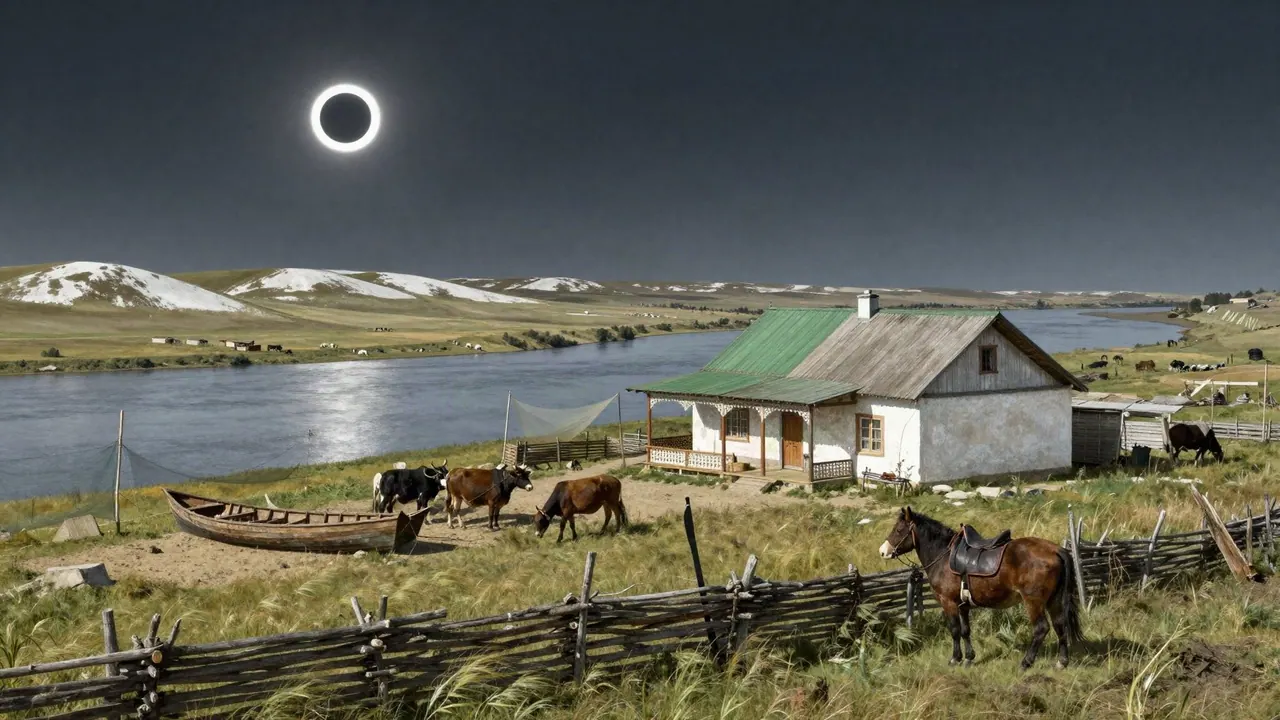
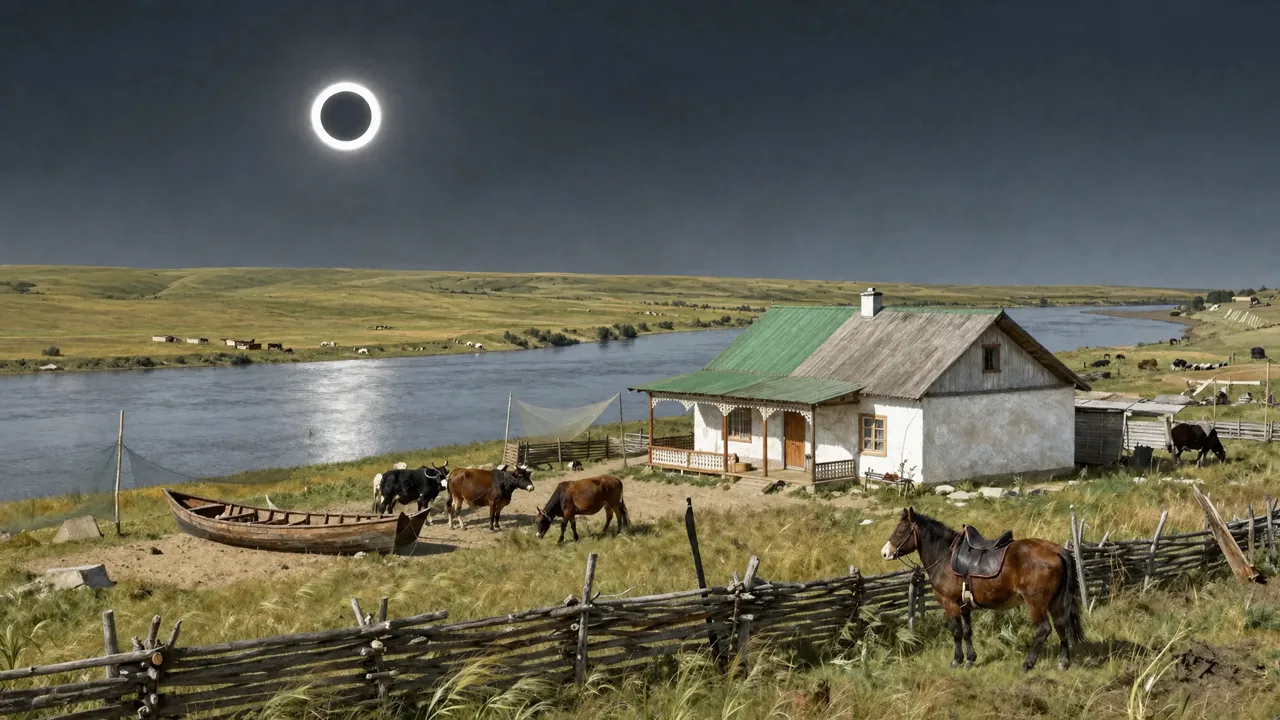
Переделаны стыки панорам: «Горе от ума», «Мастер и Маргарита», «Собачье сердце», «Очарованный странник», «Двенадцать», «Ионыч», «Тихий Дон» (без гор); детали перенесены на новые места

Changed region(s): [[0.0, 0.3667, 1.0, 1.0], [0.25, 0.0917, 0.3125, 0.1528], [0.25, 0.1833, 0.2812, 0.2139]]

diff --git a/index.html b/index.html
@@ -811,7 +811,7 @@ const ROUNDS = [
    quote:'Я пригласил вас, господа, с тем, чтобы сообщить вам пренеприятное известие: к нам едет ревизор.', cite:'Н. В. Гоголь, «Ревизор»'},
   {id:'famusov', loop:1, set:4, img:'img/s_famusov.jpg', title:'Горе от ума', titleAlt:['горе от ума'],
    author:'griboedov', dir:4, year:'1824', place:'Москва, дом Фамусова', city:'msk', tol:0, accept:['москв','фамусов'],
-   details:['часы','флейта и фортепьяно за дверью','французские книги','карета у подъезда','догоревшие свечи','рассвет в окне','фортепиано'],
+   details:['часы','флейта и фортепьяно за дверью','французские книги','карета у подъезда','догоревшие свечи','рассвет в окне','фортепиано','дверь в покои хозяина'],
    desc:'Раннее утро в доме Фамусова. Лиза сторожит у двери Софьи, за которой всю ночь звучат флейта и фортепьяно — это Молчалин. Лиза переводит часы, чтобы спасти барышню. Вечером в этот дом вернётся Чацкий, а уедет из Москвы со словами «Карету мне, карету!».',
    quote:'Счастливые часов не наблюдают.', cite:'А. С. Грибоедов, «Горе от ума»'},
   {id:'sad', loop:1, noPlace:true, set:4, img:'img/s_sad.jpg', title:'Вишнёвый сад', titleAlt:['вишневый сад'],
@@ -861,7 +861,7 @@ const ROUNDS = [
    quote:'История прекратила течение свое.', cite:'М. Е. Салтыков-Щедрин, «История одного города»'},
   {id:'sobach', loop:1, set:6, img:'img/s_sobach.jpg', title:'Собачье сердце', titleAlt:['собачье сердце'],
    author:'bulgakov', dir:4, year:'1925', place:'Москва, Пречистенка, Калабуховский дом', city:'msk', tol:0, accept:['москв','пречистенк','калабухов','обухов'],
-   details:['растерзанное чучело совы','балалайка','стойка для калош','ошейник и миска','парадная лестница с ковром','зеркало и вешалка','пальма в кадке','шкаф с инструментами'],
+   details:['растерзанное чучело совы','балалайка','стойка для калош','ошейник и миска','парадная лестница с ковром','зеркало и вешалка','пальма в кадке','шкаф с инструментами','миска в коридоре'],
    desc:'Квартира профессора Преображенского в Калабуховском доме на Пречистенке. Здесь пёс Шарик рвёт чучело совы, а после операции превращается в Полиграфа Полиграфовича Шарикова, который играет на балалайке и читает переписку Энгельса с Каутским. Профессор вздыхает о временах, когда калоши в парадном не крали.',
    quote:'Разруха не в клозетах, а в головах.', cite:'М. А. Булгаков, «Собачье сердце»'},
   {id:'nekrasov', loop:1, noPlace:true, set:6, img:'img/s_nekrasov.jpg', title:'Кому на Руси жить хорошо', titleAlt:['кому на руси жить хорошо'],
@@ -896,7 +896,7 @@ const ROUNDS = [
    quote:'Из двух друзей всегда один раб другого, хотя часто ни один из них в этом себе не признается.', cite:'М. Ю. Лермонтов, «Герой нашего времени»'},
   {id:'strannik', loop:1, set:6, img:'img/s_strannik.jpg', title:'Очарованный странник', titleAlt:['очарованный странник'],
    author:'leskov', dir:4, year:'1873', place:'Ладожское озеро, пароход на Валаам', city:'valaam', tol:80, accept:['ладог','валаам','корел','коневец'],
-   details:['палуба парохода','монастырь на острове','конская уздечка','цыганская шаль','остров Коневец','пристань Корелы','лошадки у причала','колпачок и ременный пояс'],
+   details:['палуба парохода','монастырь на острове','конская уздечка','цыганская шаль','пристань Корелы','лошадки у причала','колпачок и ременный пояс'],
    desc:'На пароходе по Ладожскому озеру пассажиры слушают богатыря-монаха Ивана Флягина. Он конэсер, знаток лошадей, побывал в татарском плену, пропил чужие деньги и бросил их к ногам цыганки Груши. Всю жизнь он «погибал, и никак не мог погибнуть».',
    quote:'Я всю жизнь свою погибал, и никак не мог погибнуть.', cite:'Н. С. Лесков, «Очарованный странник»'},
   {id:'ionych', loop:1, noPlace:true, set:6, img:'img/s_ionych.jpg', title:'Ионыч', titleAlt:['ионыч'],
@@ -952,12 +952,12 @@ const SPOTS={
           {x:0.1383,y:0.599,w:0.0400,h:0.104,t:'Книги',q:'Каждый день — новая книга: модные в те годы авторы родом из Вены и из Польши.'},
           {x:0.8916,y:0.267,w:0.0473,h:0.208,t:'Цветы',q:'Свежие цветы в этой квартире меняются каждый день — их присылают, не дожидаясь, пока завянут прежние.'}],
  grib:[{x:0.3073,y:.29,w:0.0335,h:.16,t:'Огонь',q:'Интересный факт: у этого дома есть реальный прототип — усадьба на Тверском бульваре, 25. Сегодня там Литературный институт.'},
-       {x:0.4415,y:.7,w:0.0559,h:.25,t:'Кот',q:'«Не шалю, никого не трогаю, починяю примус». Верится с трудом.'},
-       {x:0.3856,y:.35,w:0.0447,h:.45,t:'Клетчатый',q:'Треснувшее пенсне, клетчатый пиджачок и дребезжащий голос регента.'},
-       {x:0.2813,y:.56,w:0.0335,h:.28,t:'Книга у входа',q:'Без удостоверения сюда не пускают: каждого гостя записывают в толстую книгу.'},
-          {x:0.0000,y:0.660,w:0.1601,h:0.295,t:'Осетрина и судачки',q:'Рыба — гордость этого заведения: осетрина, судачки. Её заказывают, не глядя на цены.'},
-          {x:0.0673,y:0.642,w:0.0237,h:0.208,t:'Графин',q:'Запотевший графинчик водки — первое, что здесь просят, едва усевшись.'},
-          {x:0.6732,y:0.417,w:0.0801,h:0.330,t:'Джаз',q:'Вечером на этой веранде гремит джаз: оркестр играет до закрытия.'}],
+          {x:0.4415,y:.7,w:0.0559,h:.25,t:'Кот',q:'«Не шалю, никого не трогаю, починяю примус». Верится с трудом.'},
+          {x:0.3856,y:.35,w:0.0447,h:.45,t:'Клетчатый',q:'Треснувшее пенсне, клетчатый пиджачок и дребезжащий голос регента.'},
+          {x:0.2813,y:.56,w:0.0335,h:.28,t:'Книга у входа',q:'Без удостоверения сюда не пускают: каждого гостя записывают в толстую книгу.'},
+          {x:0.0000,y:0.764,w:0.1638,h:0.234,t:'Осетрина и судачки',q:'Рыба — гордость этого заведения: осетрина, судачки. Её заказывают, не глядя на цены.'},
+          {x:0.0746,y:0.660,w:0.0182,h:0.165,t:'Графин',q:'Запотевший графинчик водки — первое, что здесь просят, едва усевшись.'},
+          {x:0.6168,y:0.304,w:0.1255,h:0.347,t:'Джаз',q:'Вечером на этой веранде гремит джаз: оркестр играет до закрытия.'}],
  kapdoch:[{x:0.2514,y:0.55,w:0.0894,h:0.1,t:'Скирды сена',q:'«Три или четыре скирда сена, полузанесенные снегом» — и это всё, что увидел гость на месте ожидаемой твердыни.'},
           {x:0.5272,y:0.22,w:0.0447,h:0.24,t:'Мельница',q:'Скривившаяся мельница — ещё одна «достопримечательность» этой крепости.'},
           {x:0.3371,y:0.75,w:0.0559,h:0.1,t:'Пушка',q:'Единственная. Интересный факт: гарнизоны дальних пограничных крепостей XVIII века часто состояли из стариков-инвалидов.'},
@@ -986,12 +986,12 @@ const SPOTS={
         {x:.72,y:.65,w:.05,h:.18,t:'Калитка',q:'Калитка в заборе над оврагом. Ключ от неё лежит у кого-то в кармане.'},
         {x:.695,y:.6,w:.03,h:.045,t:'Лодка',q:'Много лет назад одна девочка вот так же села в лодку и отпихнула её от берега. Лодку нашли за десять вёрст.'}],
  blok:[{x:0.3297,y:.26,w:0.1491,h:.13,t:'Плакат',q:'Интересный факт: Учредительное собрание, о котором пишут на таких плакатах, проработало один день — 5–6 января 1918 года.'},
-       {x:0.3781,y:.55,w:0.0335,h:.37,t:'Прохожий в котелке',q:'Спрятал нос в воротник и стоит, «безмолвный, как вопрос».'},
-       {x:0.3111,y:.75,w:0.0484,h:.2,t:'Пёс',q:'Безродный, голодный, поджавший хвост. Кого он здесь олицетворяет?'},
-       {x:0.4452,y:.52,w:0.0820,h:.15,t:'Отряд',q:'Сколько их? Посчитайте — число здесь важно.'},
-          {x:0.6259,y:0.556,w:0.0873,h:0.260,t:'Фонарик на оглобельках',q:'Электрический фонарик на оглобельках: «Ах, ах, пади!..» — и ни души рядом.'},
-          {x:0.7278,y:0.660,w:0.0910,h:0.217,t:'Сугроб',q:'Вот что случилось на сугробе: «Старушка, как курица, Кой-как перемотнулась через сугроб».'},
-          {x:0.0146,y:0.764,w:0.2038,h:0.200,t:'Ледок под снежком',q:'«Под снежком — ледок. Скользко, тяжко» — так начинается эта улица.'}],
+          {x:0.3781,y:.55,w:0.0335,h:.37,t:'Прохожий в котелке',q:'Спрятал нос в воротник и стоит, «безмолвный, как вопрос».'},
+          {x:0.3111,y:.75,w:0.0484,h:.2,t:'Пёс',q:'Безродный, голодный, поджавший хвост. Кого он здесь олицетворяет?'},
+          {x:0.4452,y:.52,w:0.0820,h:.15,t:'Отряд',q:'Сколько их? Посчитайте — число здесь важно.'},
+          {x:0.7023,y:0.521,w:0.0409,h:0.200,t:'Фонарик на оглобельках',q:'Электрический фонарик на оглобельках: «Ах, ах, пади!..» — и ни души рядом.'},
+          {x:0.7697,y:0.642,w:0.0619,h:0.269,t:'Сугроб',q:'Вот что случилось на сугробе: «Старушка, как курица, Кой-как перемотнулась через сугроб».'},
+          {x:0.0000,y:0.712,w:0.2329,h:0.286,t:'Ледок под снежком',q:'«Под снежком — ледок. Скользко, тяжко» — так начинается эта улица.'}],
  izergil:[{x:0.2514,y:.62,w:0.0671,h:.24,t:'Шаль',q:'Хозяйка этой шали стара, но помнит всех, кого любила в молодости.'},
         {x:0.3222,y:.7,w:0.0261,h:.1,t:'Посох',q:'Опираясь на него, рассказчица бродит по степи и пересказывает легенды, услышанные в молодости.'},
         {x:0.4117,y:.43,w:0.0745,h:.12,t:'Голубые искры',q:'Говорят, это искры от горящего сердца: человек вырвал его из груди, чтобы осветить людям путь из леса.'},
@@ -1049,9 +1049,10 @@ const SPOTS={
           {x:0.4750,y:.57,w:0.0484,h:.1,t:'Флейта',q:'Всю ночь за дверью — флейта и фортепьяно. Интересный факт: домашнее музицирование в 1820-е было обязательной частью дворянского воспитания.'},
           {x:0.5533,y:.41,w:0.0484,h:.13,t:'Карета',q:'Кому-то она понадобится очень скоро — и он потребует её дважды.'},
           {x:0.2887,y:.66,w:0.0447,h:.16,t:'Французские книги',q:'Хозяин дома уверен: от них одна бессонница.'},
-          {x:0.0109,y:0.547,w:0.0691,h:0.234,t:'Свечи',q:'Свечи догорели до основания: ночь кончилась раньше, чем кто-то ожидал.'},
-          {x:0.7642,y:0.000,w:0.0546,h:0.339,t:'Рассвет в окне',q:'За окном светает: «Светает!.. Ах! как скоро ночь минула!»'},
-          {x:0.6769,y:0.451,w:0.0983,h:0.503,t:'Фортепиано',q:'Здесь по ночам играют вдвоём: фортепиано и флейта.'}],
+          {x:0.0164,y:0.503,w:0.0291,h:0.208,t:'Свечи',q:'Свечи догорели до основания: ночь кончилась раньше, чем кто-то ожидал.'},
+          {x:0.7205,y:0.017,w:0.0600,h:0.582,t:'Рассвет в окне',q:'За окном светает: «Светает!.. Ах! как скоро ночь минула!»'},
+          {x:0.5986,y:0.486,w:0.1219,h:0.365,t:'Фортепиано',q:'Здесь по ночам играют вдвоём: фортепиано и флейта.'},
+          {x:0.1386,y:0.059,w:0.0770,h:0.808,t:'Дверь в покои хозяина',q:'Отсюда в любую минуту может выйти хозяин дома — и тогда ночным музыкантам не поздоровится.'}],
  sad:[{x:.38,y:.14,w:.155,h:.47,t:'Сад за окном',q:'«И в „Энциклопедическом словаре“ упоминается про этот сад». Но к зиме от него останутся пни.'},
       {x:.79,y:.06,w:.05,h:.45,t:'Шкаф',q:'Ему ровно сто лет. Кто-то даже произнёс в его честь торжественную речь.'},
       {x:.72,y:.5,w:.1,h:.4,t:'Мебель в углу',q:'Дом пустеет, ставни закрывают. Издалека доносится стук топора.'},
@@ -1063,13 +1064,13 @@ const SPOTS={
           {x:0.4148,y:0.330,w:0.0582,h:0.312,t:'Занавеска',q:'Ситцевый полог у койки: единственное место, где кто-то пытается отгородиться от всех.'},
           {x:0.0146,y:0.295,w:0.1055,h:0.417,t:'Нары',q:'Нары вдоль стен: одно ложе на каждого, а лишнего ничего нет.'}],
  don:[{x:0.3222,y:.12,w:0.0261,h:.09,t:'Чёрное солнце',q:'Так видит мир человек, только что похоронивший самое дорогое.'},
-      {x:0.4378,y:.44,w:0.0969,h:.19,t:'Курень',q:'Этот двор стоит на самом краю хутора. Интересный факт: «курень» — так казаки называют свой дом.'},
-      {x:0.2850,y:.7,w:0.0671,h:.09,t:'Лодка',q:'С неё рыбачат на рассвете — и с неё начинается не одна история любви.'},
-      {x:0.5011,y:.72,w:0.0484,h:.2,t:'Конь',q:'Для казака конь и шашка — главное богатство.'},
-          {x:0.1456,y:0.686,w:0.0400,h:0.130,t:'Воротца к Дону',q:'Со скотиньего база воротца ведут прямо к Дону: самый короткий путь для всего двора.'},
-          {x:0.0000,y:0.773,w:0.1674,h:0.191,t:'Плетень',q:'Плетень вокруг база: крепость хозяйства, за ним скотина и целая жизнь.'},
-          {x:0.7533,y:0.434,w:0.0946,h:0.356,t:'Удочка и сети',q:'Удочка и сушёная сеть: рыбная ловля здесь не развлечение.'},
-          {x:0.6550,y:0.408,w:0.1128,h:0.148,t:'Стога',q:'Сено на зиму: от него у казака зависит всё хозяйство.'}],
+          {x:0.4378,y:.44,w:0.0969,h:.19,t:'Курень',q:'Этот двор стоит на самом краю хутора. Интересный факт: «курень» — так казаки называют свой дом.'},
+          {x:0.2850,y:.7,w:0.0671,h:.09,t:'Лодка',q:'С неё рыбачат на рассвете — и с неё начинается не одна история любви.'},
+          {x:0.5011,y:.72,w:0.0484,h:.2,t:'Конь',q:'Для казака конь и шашка — главное богатство.'},
+          {x:0.1601,y:0.764,w:0.0528,h:0.182,t:'Воротца к Дону',q:'Со скотиньего база воротца ведут прямо к Дону: самый короткий путь для всего двора.'},
+          {x:0.0000,y:0.755,w:0.1638,h:0.200,t:'Плетень',q:'Плетень вокруг база: крепость хозяйства, за ним скотина и целая жизнь.'},
+          {x:0.6132,y:0.599,w:0.0928,h:0.243,t:'Удочка и сети',q:'Удочка и сушёная сеть: рыбная ловля здесь не развлечение.'},
+          {x:0.6241,y:0.503,w:0.0509,h:0.130,t:'Стога',q:'Сено на зиму: от него у казака зависит всё хозяйство.'}],
  onegin:[{x:.305,y:.22,w:.095,h:.2,t:'Мельница',q:'Встреча назначена здесь, на рассвете, пока все в доме спят.'},
          {x:.29,y:.62,w:.09,h:.35,t:'Шаги',q:'Тридцать два шага, отмеренные «с точностью отменной».'},
          {x:.49,y:.6,w:.065,h:.22,t:'Пистолеты',q:'Интересный факт: лучшие дуэльные пистолеты начала XIX века делал парижский оружейник Лепаж.'},
@@ -1132,10 +1133,11 @@ const SPOTS={
           {x:0.4601,y:.48,w:0.0522,h:.14,t:'Калоши',q:'Интересный факт: в 1917 году калоши из этой передней начали пропадать. Хозяин считал это началом разрухи.'},
           {x:0.3185,y:.54,w:0.0745,h:.07,t:'Газеты',q:'Совет хозяина дома: не читайте их перед обедом.'},
           {x:0.4638,y:.25,w:0.0447,h:.2,t:'Зимняя улица',q:'Метель и подворотня. Кто-то недавно выл здесь, обварив бок кипятком.'},
-          {x:0.0000,y:0.069,w:0.0873,h:0.642,t:'Парадная лестница',q:'Лестница с красным ковром на медных прутьях: посторонних сюда обычно не пускали.'},
-          {x:0.1346,y:0.035,w:0.0746,h:0.677,t:'Зеркало и вешалка',q:'Вешалка у зеркала: калоши и шляпа на месте, значит, хозяева дома.'},
-          {x:0.0546,y:0.208,w:0.0582,h:0.260,t:'Пальма в кадке',q:'Пальма в кадке на лестничной площадке: признак порядка в доме.'},
-          {x:0.6259,y:0.208,w:0.0473,h:0.399,t:'Шкаф с инструментами',q:'Стеклянный шкаф с блестящими инструментами: всё здесь служит одному делу.'}],
+          {x:0.0000,y:0.087,w:0.0764,h:0.911,t:'Парадная лестница',q:'Лестница с красным ковром на медных прутьях: посторонних сюда обычно не пускали.'},
+          {x:0.1674,y:0.026,w:0.0764,h:0.799,t:'Зеркало и вешалка',q:'Вешалка у зеркала: калоши и шляпа на месте, значит, хозяева дома.'},
+          {x:0.0782,y:0.139,w:0.0764,h:0.590,t:'Пальма в кадке',q:'Пальма в кадке на лестничной площадке: признак порядка в доме.'},
+          {x:0.6769,y:0.278,w:0.0328,h:0.356,t:'Шкаф с инструментами',q:'Стеклянный шкаф с блестящими инструментами: всё здесь служит одному делу.'},
+          {x:0.7533,y:0.816,w:0.0237,h:0.087,t:'Миска',q:'Миска стоит прямо в коридоре: нового жильца здесь кормят так, как ему и не снилось на улице.'}],
  nekrasov:[{x:0.3856,y:.82,w:0.1416,h:.14,t:'Семь пар обуви',q:'Их хозяева заспорили на дороге и ушли так далеко, что забыли повернуть домой.'},
           {x:0.4303,y:.54,w:0.0969,h:.16,t:'Скатерть',q:'Загадка: сама стелется, сама кормит, но только тех, кто идёт по делу. Кто её подарил?'},
           {x:0.4601,y:.4,w:0.0335,h:.09,t:'Птичка',q:'Маленькая серая птица выкупила своего птенца волшебным подарком.'},
@@ -1184,24 +1186,23 @@ const SPOTS={
           {x:0.4340,y:.3,w:0.0932,h:.16,t:'Монастырь на острове',q:'Пароход идёт к святым островам. Путники едут туда на богомолье.'},
           {x:0.4489,y:.72,w:0.0633,h:.2,t:'Сундук',q:'Попутчик плывёт недолго: в его жизни было столько дорог, что хватит на целый пароход слушателей.'},
           {x:0.2440,y:.8,w:0.0522,h:.18,t:'Канат',q:'Интересный факт: однажды он пытался повеситься, но цыган перерезал верёвку. Жизнь его не отпускала.'},
-          {x:0.0691,y:0.274,w:0.1492,h:0.174,t:'Остров Коневец',q:'Остров, от которого начинается плавание. На нём монастырь — первая остановка паломников.'},
-          {x:0.6914,y:0.191,w:0.1528,h:0.243,t:'Пристань Корелы',q:'Пустынный городок, «грустнее которого трудно что-нибудь выдумать». Сюда пароход зашёл по корабельной надобности.'},
-          {x:0.7387,y:0.413,w:0.0473,h:0.087,t:'Лошадки',q:'На бодрых местных лошадках пассажиры съездили осмотреть городок, пока судно стояло у причала.'},
-          {x:0.6623,y:0.778,w:0.0983,h:0.134,t:'Колпачок и пояс',q:'Подрясник, широкий ременный пояс и высокий чёрный колпачок: так выглядел один из попутчиков.'}],
+          {x:0.6368,y:0.304,w:0.2165,h:0.226,t:'Пристань Корелы',q:'Пустынный городок, «грустнее которого трудно что-нибудь выдумать». Сюда пароход зашёл по корабельной надобности.'},
+          {x:0.7314,y:0.399,w:0.0400,h:0.078,t:'Лошадки',q:'На бодрых местных лошадках пассажиры съездили осмотреть городок, пока судно стояло у причала.'},
+          {x:0.7314,y:0.781,w:0.0619,h:0.122,t:'Колпачок и пояс',q:'Подрясник, широкий ременный пояс и высокий чёрный колпачок: так выглядел один из попутчиков.'}],
  ionych:[{x:0.4676,y:.38,w:0.0932,h:.22,t:'Рояль',q:'Играют здесь так громко, словно хотят вбить клавиши внутрь. Гости терпят и хвалят.'},
           {x:0.3483,y:.8,w:0.0671,h:.12,t:'Рукопись',q:'Хозяйка пишет романы — о том, чего не бывает в жизни. Читает их гостям вслух.'},
           {x:0.3670,y:.72,w:0.0447,h:.08,t:'Бумажки',q:'Цитата: «вынимал из карманов бумажки, добытые практикой». Вечером их считают с удовольствием.'},
           {x:0.3521,y:.28,w:0.0373,h:.13,t:'Коляска',q:'Кучер здесь такой же толстый, как седок. Ездят с бубенчиками — слышно издалека.'},
           {x:0.3260,y:.06,w:0.0335,h:.18,t:'Сирень',q:'Весна, вечер, сад. Молодой доктор впервые понимает, что влюблён, и готов идти пешком хоть за девять вёрст.'},
           {x:0.4005,y:.43,w:0.0298,h:.12,t:'Самовар',q:'Гостей встречают радушно. Хозяин умеет шутить, но шутки одни и те же много лет.'},
-          {x:0.0509,y:0.139,w:0.0655,h:0.625,t:'Книжный шкаф',q:'Книги за стеклом — украшение дома. Читают здесь по большей части собственные сочинения.'},
-          {x:0.1237,y:0.156,w:0.0364,h:0.278,t:'Портреты',q:'Семейные портреты в рамах: дом, который гордится собой и своими талантами.'},
-          {x:0.1856,y:0.365,w:0.0400,h:0.104,t:'Герань на окне',q:'Цветы на подоконнике поливают исправно: порядок в этом доме держится на привычках.'},
-          {x:0.6023,y:0.069,w:0.0382,h:0.417,t:'Зеркало',q:'Зеркало в золочёной раме: здесь любят смотреться — и собой, и своими талантами.'},
-          {x:0.6587,y:0.097,w:0.0218,h:0.250,t:'Часы с гирей',q:'Время в этом доме идёт всегда одинаково: одни и те же вечера, одни и те же шутки.'},
-          {x:0.6259,y:0.417,w:0.0582,h:0.312,t:'Стол с зелёным сукном',q:'Стол накрыт зелёным сукном и ждёт гостей: вечера в этом доме начинаются одинаково и одинаково кончаются.'},
-          {x:0.7824,y:0.017,w:0.0400,h:0.747,t:'Изразцовая печь',q:'Белая печь в изразцах: зимой возле неё собираются те, кому нужно согреться и поговорить.'},
-          {x:0.9352,y:0.451,w:0.0509,h:0.174,t:'Письменный стол',q:'Здесь по вечерам сочиняют: хозяйка дома пишет романы и повести и охотно читает их гостям.'}]
+          {x:0.0928,y:0.122,w:0.0464,h:0.486,t:'Книжный шкаф',q:'Книги за стеклом — украшение дома. Читают здесь по большей части собственные сочинения.'},
+          {x:0.0673,y:0.139,w:0.0227,h:0.291,t:'Портреты',q:'Семейные портреты в рамах: дом, который гордится собой и своими талантами.'},
+          {x:0.1692,y:0.334,w:0.0473,h:0.109,t:'Герань на окне',q:'Цветы на подоконнике поливают исправно: порядок в этом доме держится на привычках.'},
+          {x:0.6095,y:0.026,w:0.0418,h:0.447,t:'Зеркало',q:'Зеркало в золочёной раме: здесь любят смотреться — и собой, и своими талантами.'},
+          {x:0.6823,y:0.078,w:0.0191,h:0.395,t:'Часы с гирей',q:'Время в этом доме идёт всегда одинаково: одни и те же вечера, одни и те же шутки.'},
+          {x:0.6668,y:0.486,w:0.1356,h:0.412,t:'Стол с зелёным сукном',q:'Стол накрыт зелёным сукном и ждёт гостей: вечера в этом доме начинаются одинаково и одинаково кончаются.'},
+          {x:0.7860,y:0.009,w:0.0537,h:0.551,t:'Изразцовая печь',q:'Белая печь в изразцах: зимой возле неё собираются те, кому нужно согреться и поговорить.'},
+          {x:0.9025,y:0.373,w:0.0528,h:0.230,t:'Письменный стол',q:'Здесь по вечерам сочиняют: хозяйка дома пишет романы и повести и охотно читает их гостям.'}]
 };
 ROUNDS.forEach(r=>{if(SPOTS[r.id]) r.spots=SPOTS[r.id];});
 const READY = ["aust", "blok", "borodino", "braslet", "capri", "chp", "don", "famusov", "fili", "glupov", "grib", "izergil", "groza", "ionych", "kapdoch", "levsha", "liza", "matryona", "meri", "mtsyri", "nadne", "nekrasov", "oblomov", "olesya", "plennik", "mumu", "rozhdestvo", "bezhin", "bulba", "onegin", "otcy", "pin", "plyushkin", "rekviem", "revizor", "sad", "shen", "slovo", "sobach", "strannik", "taman", "vsadnik"];
